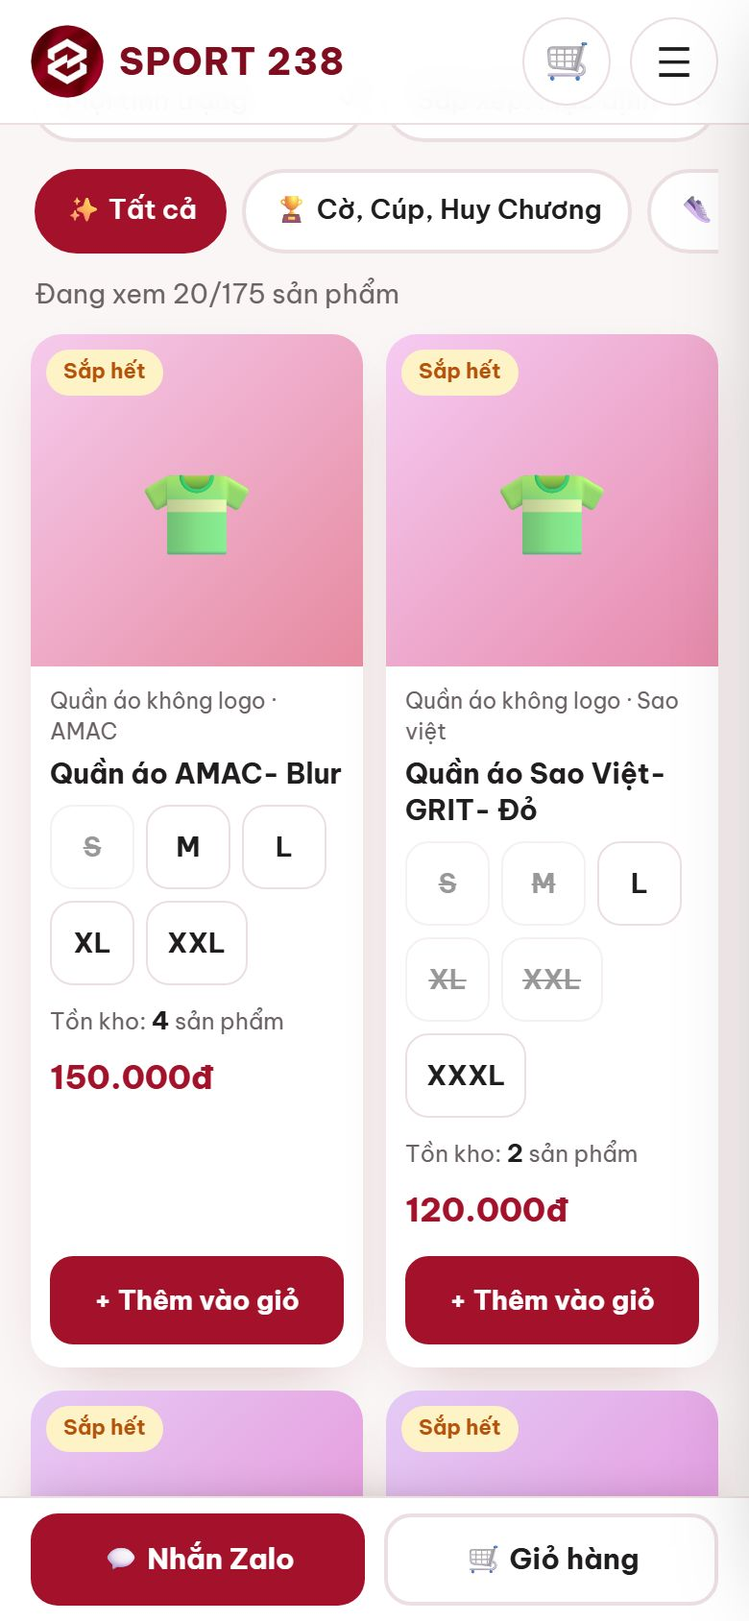
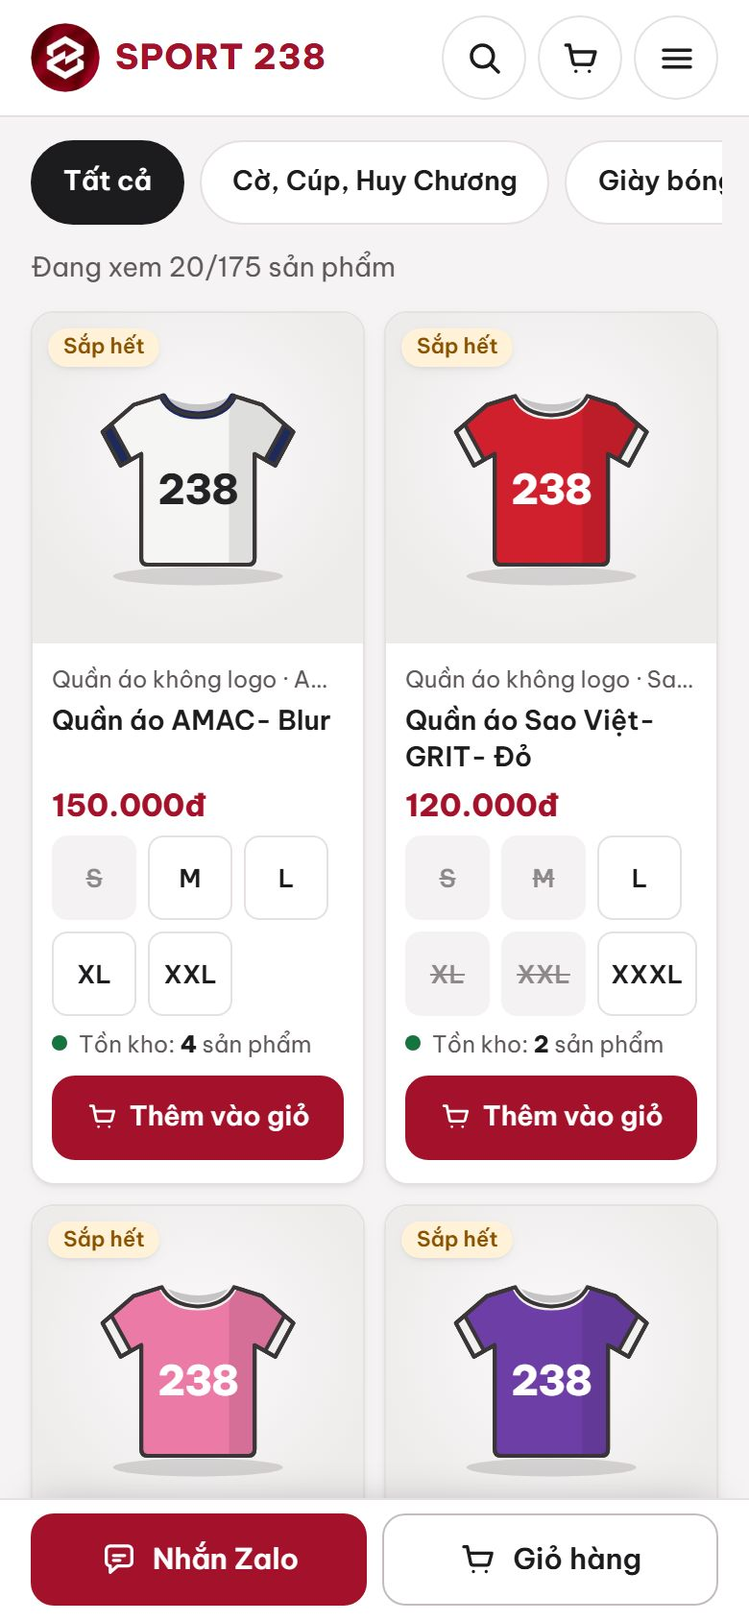
D7: ảnh sau khi làm lại giao diện, trang so sánh trước–sau; cập nhật PROGRESS, BACKLOG
- screenshots/after/: 17 ảnh chụp lại bằng tests/chup_anh.py (thêm 11-chitiet-pc,
  12-trangchu-pc-dark); screenshots/so-sanh.html chú thích từng cặp, ảnh chưa có ghi
  "Trước đây chưa có".
- PROGRESS.md, BACKLOG.md: D1–D4, D7 xong; số liệu Lighthouse, axe, CLS sau khi làm lại.

diff --git a/screenshots/so-sanh.html b/screenshots/so-sanh.html
@@ -1,9 +1,38 @@
 <!DOCTYPE html><html lang="vi"><head><meta charset="utf-8"><meta name="viewport" content="width=device-width,initial-scale=1">
-<title>SPORT 238 – So sánh trước và sau (Giai đoạn sửa lỗi điện thoại)</title>
-<style>:root{--bg:#faf6f6;--ink:#1f1d1e;--mu:#6b6264;--card:#fff;--ac:#a3122a}@media(prefers-color-scheme:dark){:root{--bg:#151213;--ink:#f3eeee;--mu:#b3a8aa;--card:#1f1a1b;--ac:#ff9aa6}}
-body{margin:0;background:var(--bg);color:var(--ink);font:16px/1.55 system-ui,sans-serif;padding:24px 16px}main{max-width:1100px;margin:0 auto}h1{margin:0 0 6px}h2{margin:0 0 6px;font-size:20px}
-section{background:var(--card);border-radius:16px;padding:18px;margin:18px 0;box-shadow:0 8px 24px -16px rgba(0,0,0,.3)}p{color:var(--mu);margin:0 0 12px}
-.pair{display:grid;grid-template-columns:1fr 1fr;gap:14px;align-items:start}figure{margin:0}figcaption{font-weight:700;color:var(--ac);margin-bottom:6px}img{width:100%;border-radius:10px;border:1px solid rgba(127,127,127,.25)}
-.none{border:2px dashed rgba(127,127,127,.4);border-radius:10px;padding:40px 10px;text-align:center;color:var(--mu)}@media(max-width:600px){.pair{gap:8px}}</style></head><body><main>
-<h1>So sánh trước – sau</h1><p>Đợt sửa lỗi trải nghiệm điện thoại, ngày 24/11/2026. Ảnh chụp từ web tĩnh (đúng bản khách xem), dữ liệu mẫu 175 sản phẩm. Ảnh khảo sát ban đầu đầy đủ ở thư mục <code>before/khao-sat-24-11/</code>.</p>
-<section><h2>Điện thoại – đầu trang</h2><p>Thêm giờ mở cửa ở thanh trên cùng, nút menu ☰, thanh “Nhắn Zalo / Giỏ hàng” cố định ở dưới. Bỏ hình trang trí lớn để sản phẩm lên gần đầu trang.</p><div class="pair"><figure><figcaption>Trước</figcaption><img src="before/01-trangchu-dt-light.jpg" alt="Trước: Điện thoại – đầu trang" loading="lazy"></figure><figure><figcaption>Sau</figcaption><img src="after/01-trangchu-dt-light.jpg" alt="Sau: Điện thoại – đầu trang" loading="lazy"></figure></div></section><section><h2>Điện thoại – đầu trang (chế độ tối)</h2><div class="pair"><figure><figcaption>Trước</figcaption><img src="before/01-trangchu-dt-dark.jpg" alt="Trước: Điện thoại – đầu trang (chế độ tối)" loading="lazy"></figure><figure><figcaption>Sau</figcaption><img src="after/01-trangchu-dt-dark.jpg" alt="Sau: Điện thoại – đầu trang (chế độ tối)" loading="lazy"></figure></div></section><section><h2>Điện thoại – kéo xuống 1 màn hình</h2><p>Trước: vẫn là hình trang trí. Sau: đã tới ô tìm kiếm và sản phẩm (sản phẩm đầu tiên ở 1.156 px, trước là 3.908 px).</p><div class="pair"><figure><figcaption>Trước</figcaption><img src="before/02-man-hinh-thu-2-dt-light.jpg" alt="Trước: Điện thoại – kéo xuống 1 màn hình" loading="lazy"></figure><figure><figcaption>Sau</figcaption><img src="after/02-man-hinh-thu-2-dt-light.jpg" alt="Sau: Điện thoại – kéo xuống 1 màn hình" loading="lazy"></figure></div></section><section><h2>Điện thoại – danh sách sản phẩm</h2><p>2 sản phẩm mỗi hàng (trước 1). Nút size, màu cao 44 px cho dễ bấm. Hiện 20 sản phẩm mỗi lần, có nút “Xem thêm”: trang dài 8.458 px thay vì 119.543 px.</p><div class="pair"><figure><figcaption>Trước</figcaption><img src="before/03-luoi-sanpham-dt-light.jpg" alt="Trước: Điện thoại – danh sách sản phẩm" loading="lazy"></figure><figure><figcaption>Sau</figcaption><img src="after/03-luoi-sanpham-dt-light.jpg" alt="Sau: Điện thoại – danh sách sản phẩm" loading="lazy"></figure></div></section><section><h2>Điện thoại – danh sách sản phẩm (chế độ tối)</h2><div class="pair"><figure><figcaption>Trước</figcaption><img src="before/03-luoi-sanpham-dt-dark.jpg" alt="Trước: Điện thoại – danh sách sản phẩm (chế độ tối)" loading="lazy"></figure><figure><figcaption>Sau</figcaption><img src="after/03-luoi-sanpham-dt-dark.jpg" alt="Sau: Điện thoại – danh sách sản phẩm (chế độ tối)" loading="lazy"></figure></div></section><section><h2>Điện thoại – menu ☰ (mới)</h2><p>Trước: trên điện thoại không có menu. Sau: menu tới Danh mục, Sản phẩm, Về shop, Cách mua, nút Zalo, địa chỉ và giờ mở cửa.</p><div class="pair"><figure><figcaption>Trước</figcaption><div class="none">Trước đây chưa có</div></figure><figure><figcaption>Sau</figcaption><img src="after/04-menu-dt-light.jpg" alt="Sau: Điện thoại – menu ☰ (mới)" loading="lazy"></figure></div></section><section><h2>Tìm “giay” (không dấu)</h2><p>Trước: 0 kết quả. Sau: 36 kết quả, giống gõ “giày”. Tìm được cả theo mã (PVN…), hãng, màu.</p><div class="pair"><figure><figcaption>Trước</figcaption><img src="before/05-tim-giay-khong-dau-dt-light.jpg" alt="Trước: Tìm “giay” (không dấu)" loading="lazy"></figure><figure><figcaption>Sau</figcaption><img src="after/05-tim-giay-khong-dau-dt-light.jpg" alt="Sau: Tìm “giay” (không dấu)" loading="lazy"></figure></div></section><section><h2>Điện thoại – trang chi tiết</h2><p>Nút Zalo nổi không còn che nút chọn loại. Màu, size đã chọn trên thẻ được giữ. Thêm giờ mở cửa.</p><div class="pair"><figure><figcaption>Trước</figcaption><img src="before/06-chitiet-dt-light.jpg" alt="Trước: Điện thoại – trang chi tiết" loading="lazy"></figure><figure><figcaption>Sau</figcaption><img src="after/06-chitiet-dt-light.jpg" alt="Sau: Điện thoại – trang chi tiết" loading="lazy"></figure></div></section><section><h2>Điện thoại – trang chi tiết (chế độ tối)</h2><div class="pair"><figure><figcaption>Trước</figcaption><img src="before/06-chitiet-dt-dark.jpg" alt="Trước: Điện thoại – trang chi tiết (chế độ tối)" loading="lazy"></figure><figure><figcaption>Sau</figcaption><img src="after/06-chitiet-dt-dark.jpg" alt="Sau: Điện thoại – trang chi tiết (chế độ tối)" loading="lazy"></figure></div></section><section><h2>Điện thoại – giỏ hàng</h2><p>Nút +/− và nút đóng to hơn (44 px). Ghi chú nhận hàng có giờ mở cửa.</p><div class="pair"><figure><figcaption>Trước</figcaption><img src="before/07-giohang-dt-light.jpg" alt="Trước: Điện thoại – giỏ hàng" loading="lazy"></figure><figure><figcaption>Sau</figcaption><img src="after/07-giohang-dt-light.jpg" alt="Sau: Điện thoại – giỏ hàng" loading="lazy"></figure></div></section><section><h2>Điện thoại – giỏ hàng (chế độ tối)</h2><div class="pair"><figure><figcaption>Trước</figcaption><img src="before/07-giohang-dt-dark.jpg" alt="Trước: Điện thoại – giỏ hàng (chế độ tối)" loading="lazy"></figure><figure><figcaption>Sau</figcaption><img src="after/07-giohang-dt-dark.jpg" alt="Sau: Điện thoại – giỏ hàng (chế độ tối)" loading="lazy"></figure></div></section><section><h2>Bấm “Xóa giỏ hàng”</h2><p>Trước: xóa ngay, không hỏi. Sau: hỏi lại “Xóa hết 2 món trong giỏ hàng?” với hai nút Xóa hết / Giữ lại.</p><div class="pair"><figure><figcaption>Trước</figcaption><img src="before/08-bam-xoa-gio-dt-light.jpg" alt="Trước: Bấm “Xóa giỏ hàng”" loading="lazy"></figure><figure><figcaption>Sau</figcaption><img src="after/08-bam-xoa-gio-dt-light.jpg" alt="Sau: Bấm “Xóa giỏ hàng”" loading="lazy"></figure></div></section><section><h2>Máy tính – đầu trang</h2><p>Nút “💬 Zalo” trên thanh đầu trang; giờ mở cửa ở thanh trên cùng.</p><div class="pair"><figure><figcaption>Trước</figcaption><img src="before/09-trangchu-pc.jpg" alt="Trước: Máy tính – đầu trang" loading="lazy"></figure><figure><figcaption>Sau</figcaption><img src="after/09-trangchu-pc.jpg" alt="Sau: Máy tính – đầu trang" loading="lazy"></figure></div></section><section><h2>Máy tính – danh sách sản phẩm</h2><p>Sản phẩm nằm ngay sau danh mục (bỏ dải “Hàng đang có sẵn” trùng lặp); 20 sản phẩm mỗi lần, có nút “Xem thêm”.</p><div class="pair"><figure><figcaption>Trước</figcaption><img src="before/10-luoi-pc.jpg" alt="Trước: Máy tính – danh sách sản phẩm" loading="lazy"></figure><figure><figcaption>Sau</figcaption><img src="after/10-luoi-pc.jpg" alt="Sau: Máy tính – danh sách sản phẩm" loading="lazy"></figure></div></section></main></body></html>
+<title>SPORT 238 – So sánh trước và sau (làm lại giao diện)</title>
+<style>:root{--bg:#f5f3f3;--ink:#1c1b1d;--mu:#5e585a;--card:#fff;--ac:#a3122a;--line:#e5e0e1}
+@media(prefers-color-scheme:dark){:root{--bg:#121113;--ink:#f3eff0;--mu:#b4abad;--card:#1b191b;--ac:#ff8a9a;--line:#332e31}}
+body{margin:0;background:var(--bg);color:var(--ink);font:16px/1.55 system-ui,"Segoe UI",sans-serif;padding:24px 16px}main{max-width:1100px;margin:0 auto}
+h1{margin:0 0 6px;font-size:28px}h2{margin:0 0 6px;font-size:20px}p{color:var(--mu);margin:0 0 12px}ul{color:var(--mu);margin:0 0 12px;padding-left:20px}
+section{background:var(--card);border:1px solid var(--line);border-radius:16px;padding:18px;margin:18px 0}
+.pair{display:grid;grid-template-columns:1fr 1fr;gap:14px;align-items:start}figure{margin:0}figcaption{font-weight:700;color:var(--ac);margin-bottom:6px}
+img{width:100%;height:auto;border-radius:10px;border:1px solid var(--line);display:block}
+.none{border:2px dashed var(--line);border-radius:10px;padding:40px 10px;text-align:center;color:var(--mu)}
+code{background:var(--line);padding:1px 5px;border-radius:4px}@media(max-width:600px){.pair{gap:8px}}</style></head><body><main>
+<h1>So sánh trước – sau: làm lại giao diện</h1>
+<p>Đợt làm lại giao diện cửa hàng (hệ thống thiết kế D1, các trang D2–D3, tốc độ D4, ảnh D7), ngày 24/11/2026.
+<b>Trước</b>: ảnh khảo sát ban đầu (thư mục <code>before/</code>). <b>Sau</b>: bản Next.js xuất web tĩnh (đúng bản khách xem), dữ liệu mẫu 175 sản phẩm, chưa có ảnh sản phẩm thật.
+Điện thoại 390 px, máy tính 1366 px. Chụp lại bằng <code>py tests/chup_anh.py &lt;địa chỉ web&gt; screenshots/after</code>.</p>
+<ul>
+<li>Màu, chữ, khoảng cách, nút thống nhất theo logo (đỏ đô + xám đen); chế độ tối đầy đủ, chữ đạt chuẩn tương phản.</li>
+<li>Bỏ emoji trang trí, quả bóng lớn, dải chữ chạy, biểu tượng bay: thay bằng biểu tượng SVG gọn, nét.</li>
+<li>Chưa có ảnh thật: thẻ sản phẩm hiện hình minh họa theo danh mục, tô theo màu của sản phẩm.</li>
+<li>So với bản Next.js ngay trước đợt này: tốc độ trang chủ (Lighthouse, điện thoại giả lập, đo trên máy shop) 66–76 điểm → 99 điểm; tệp trang chủ 235 KB → 138 KB.</li>
+</ul>
+<section><h2>Điện thoại – đầu trang</h2><p>Phần mở đầu thấp hơn (370 px), nói rõ cách mua: “Chọn size, nhắn Zalo, ghé shop nhận hàng” kèm giờ mở cửa 8:00–21:00. Bỏ quả bóng trang trí và nút Zalo nổi. Đầu trang có nút tìm nhanh, giỏ, menu; dưới cùng là thanh Nhắn Zalo / Giỏ hàng.</p><div class="pair"><figure><figcaption>Trước</figcaption><img src="before/01-trangchu-dt-light.jpg" alt="Trước: điện thoại – đầu trang" loading="lazy"></figure><figure><figcaption>Sau</figcaption><img src="after/01-trangchu-dt-light.jpg" alt="Sau: điện thoại – đầu trang" loading="lazy"></figure></div></section>
+<section><h2>Điện thoại – đầu trang (chế độ tối)</h2><p>Nền tối thật sự, chữ đỏ nhỏ dùng tông hồng sáng cho đủ tương phản.</p><div class="pair"><figure><figcaption>Trước</figcaption><img src="before/01-trangchu-dt-dark.jpg" alt="Trước: điện thoại – đầu trang, chế độ tối" loading="lazy"></figure><figure><figcaption>Sau</figcaption><img src="after/01-trangchu-dt-dark.jpg" alt="Sau: điện thoại – đầu trang, chế độ tối" loading="lazy"></figure></div></section>
+<section><h2>Điện thoại – kéo xuống 1 màn hình</h2><p>Dải lợi ích (xem tồn từng size, giữ hàng cho bạn, ghé shop nhận), 9 danh mục bằng biểu tượng SVG vuốt ngang, rồi tới ngay ô tìm và bộ lọc. Sản phẩm đầu tiên ở 1.148 px (ban đầu 3.908 px).</p><div class="pair"><figure><figcaption>Trước</figcaption><img src="before/02-man-hinh-thu-2-dt-light.jpg" alt="Trước: điện thoại – màn hình thứ hai" loading="lazy"></figure><figure><figcaption>Sau</figcaption><img src="after/02-man-hinh-thu-2-dt-light.jpg" alt="Sau: điện thoại – màn hình thứ hai" loading="lazy"></figure></div></section>
+<section><h2>Điện thoại – danh sách sản phẩm</h2><p>Khung ảnh vuông; chưa có ảnh thật thì hiện hình minh họa (áo, giày, vớ, cúp…) tô theo màu sản phẩm. Giá nằm ngay dưới tên, nút size 44 px, chấm xanh/đỏ cho tồn kho, nút “Thêm vào giỏ” có biểu tượng giỏ.</p><div class="pair"><figure><figcaption>Trước</figcaption><img src="before/03-luoi-sanpham-dt-light.jpg" alt="Trước: điện thoại – danh sách sản phẩm" loading="lazy"></figure><figure><figcaption>Sau</figcaption><img src="after/03-luoi-sanpham-dt-light.jpg" alt="Sau: điện thoại – danh sách sản phẩm" loading="lazy"></figure></div></section>
+<section><h2>Điện thoại – danh sách sản phẩm (chế độ tối)</h2><div class="pair"><figure><figcaption>Trước</figcaption><img src="before/03-luoi-sanpham-dt-dark.jpg" alt="Trước: điện thoại – danh sách, chế độ tối" loading="lazy"></figure><figure><figcaption>Sau</figcaption><img src="after/03-luoi-sanpham-dt-dark.jpg" alt="Sau: điện thoại – danh sách, chế độ tối" loading="lazy"></figure></div></section>
+<section><h2>Điện thoại – menu</h2><p>Menu gọn, chữ lớn, không emoji; nút Nhắn Zalo lớn; địa chỉ và giờ mở cửa ở cuối.</p><div class="pair"><figure><figcaption>Trước</figcaption><div class="none">Trước đây chưa có</div></figure><figure><figcaption>Sau</figcaption><img src="after/04-menu-dt-light.jpg" alt="Sau: điện thoại – menu" loading="lazy"></figure></div></section>
+<section><h2>Tìm “giay” (không dấu)</h2><p>Ô tìm rõ hơn (viền, biểu tượng kính lúp), ra 36 sản phẩm giống gõ “giày”. Giày hiện hình minh họa giày bóng đá (có đinh) hoặc giày thể thao.</p><div class="pair"><figure><figcaption>Trước</figcaption><img src="before/05-tim-giay-khong-dau-dt-light.jpg" alt="Trước: tìm giay" loading="lazy"></figure><figure><figcaption>Sau</figcaption><img src="after/05-tim-giay-khong-dau-dt-light.jpg" alt="Sau: tìm giay" loading="lazy"></figure></div></section>
+<section><h2>Điện thoại – trang chi tiết</h2><p>Thanh “Thêm vào giỏ” dính đáy màn hình, gộp luôn nút Zalo và giỏ (không chồng hai thanh, không che nút nào). Chấm trạng thái tồn kho. Phía dưới có khối “Ghé shop nhận hàng”: địa chỉ, giờ mở cửa, nút chỉ đường Google Maps. Ảnh vuốt ngang khi có nhiều ảnh.</p><div class="pair"><figure><figcaption>Trước</figcaption><img src="before/06-chitiet-dt-light.jpg" alt="Trước: điện thoại – trang chi tiết" loading="lazy"></figure><figure><figcaption>Sau</figcaption><img src="after/06-chitiet-dt-light.jpg" alt="Sau: điện thoại – trang chi tiết" loading="lazy"></figure></div></section>
+<section><h2>Điện thoại – trang chi tiết (chế độ tối)</h2><div class="pair"><figure><figcaption>Trước</figcaption><img src="before/06-chitiet-dt-dark.jpg" alt="Trước: trang chi tiết, chế độ tối" loading="lazy"></figure><figure><figcaption>Sau</figcaption><img src="after/06-chitiet-dt-dark.jpg" alt="Sau: trang chi tiết, chế độ tối" loading="lazy"></figure></div></section>
+<section><h2>Điện thoại – giỏ hàng</h2><p>Mỗi món ghi rõ size và giá; nút +/− gọn. Tạm tính và hai nút gửi đơn (Zalo, Messenger) luôn nằm cố định ở cuối giỏ; tin nhắn gửi shop và nút Sao chép ở giữa.</p><div class="pair"><figure><figcaption>Trước</figcaption><img src="before/07-giohang-dt-light.jpg" alt="Trước: giỏ hàng" loading="lazy"></figure><figure><figcaption>Sau</figcaption><img src="after/07-giohang-dt-light.jpg" alt="Sau: giỏ hàng" loading="lazy"></figure></div></section>
+<section><h2>Điện thoại – giỏ hàng (chế độ tối)</h2><div class="pair"><figure><figcaption>Trước</figcaption><img src="before/07-giohang-dt-dark.jpg" alt="Trước: giỏ hàng, chế độ tối" loading="lazy"></figure><figure><figcaption>Sau</figcaption><img src="after/07-giohang-dt-dark.jpg" alt="Sau: giỏ hàng, chế độ tối" loading="lazy"></figure></div></section>
+<section><h2>Bấm “Xóa giỏ hàng”</h2><p>Hỏi lại ngay dưới danh sách món: “Giữ lại” đứng trước, “Xóa hết” màu đỏ.</p><div class="pair"><figure><figcaption>Trước</figcaption><img src="before/08-bam-xoa-gio-dt-light.jpg" alt="Trước: bấm xóa giỏ" loading="lazy"></figure><figure><figcaption>Sau</figcaption><img src="after/08-bam-xoa-gio-dt-light.jpg" alt="Sau: bấm xóa giỏ" loading="lazy"></figure></div></section>
+<section><h2>Máy tính – đầu trang</h2><p>Phần mở đầu thấp hơn (490 px), bên phải là thẻ “Ghé shop nhận hàng” (địa chỉ, giờ, Chỉ đường, Zalo). Đầu trang dính có nút tìm nhanh, Nhắn Zalo, giỏ. Dải lợi ích ngay dưới.</p><div class="pair"><figure><figcaption>Trước</figcaption><img src="before/09-trangchu-pc.jpg" alt="Trước: máy tính – đầu trang" loading="lazy"></figure><figure><figcaption>Sau</figcaption><img src="after/09-trangchu-pc.jpg" alt="Sau: máy tính – đầu trang" loading="lazy"></figure></div></section>
+<section><h2>Máy tính – danh sách sản phẩm</h2><p>Ô tìm và bộ lọc thẳng hàng, danh mục dạng nút chữ (không emoji), thẻ sản phẩm có viền nhẹ và hình minh họa theo màu.</p><div class="pair"><figure><figcaption>Trước</figcaption><img src="before/10-luoi-pc.jpg" alt="Trước: máy tính – danh sách" loading="lazy"></figure><figure><figcaption>Sau</figcaption><img src="after/10-luoi-pc.jpg" alt="Sau: máy tính – danh sách" loading="lazy"></figure></div></section>
+<section><h2>Máy tính – trang chi tiết</h2><p>Ảnh bên trái (đứng yên khi cuộn), thông tin bên phải: loại, size kèm số còn, nút “Thêm vào giỏ”, “Hỏi shop”, khối “Ghé shop nhận hàng”.</p><div class="pair"><figure><figcaption>Trước</figcaption><div class="none">Trước đây chưa có</div></figure><figure><figcaption>Sau</figcaption><img src="after/11-chitiet-pc.jpg" alt="Sau: máy tính – trang chi tiết" loading="lazy"></figure></div></section>
+<section><h2>Máy tính – đầu trang (chế độ tối)</h2><div class="pair"><figure><figcaption>Trước</figcaption><div class="none">Trước đây chưa có</div></figure><figure><figcaption>Sau</figcaption><img src="after/12-trangchu-pc-dark.jpg" alt="Sau: máy tính – đầu trang, chế độ tối" loading="lazy"></figure></div></section>
+</main></body></html>

diff --git a/PROGRESS.md b/PROGRESS.md
@@ -13,8 +13,9 @@ Chủ shop đã duyệt PROPOSALS: **A1–A7, B1–B6, C1, C3, D1–D7, E2**; vi
 - ✅ **A2** danh mục "Giày thể thao" (Python 2 bản + Java; `ParityWithPythonTest` Python = Java trên file thật; dữ liệu mẫu cập nhật).
 - ✅ **E2** Next.js xuất web tĩnh là bản chính (`tools/export_next.py`, `daily_update.xuat_web` tự dùng HTML khi lỗi; `tests/test_seo.py`). Nhãn `on-dinh-2026-11-24-e2-next-tinh`. **Từ nay chức năng và giao diện mới chỉ làm trên Next.js** (xem CLAUDE.md).
 - ✅ **T (một phần)** `tests/test_a11y.py` (axe) + `tests/lighthouse.py`; cài: `cd tests && npm install`. ✅ **D5** axe 0 lỗi serious trên cả hai bản. Lighthouse: trang SP 98/100/100/100; trang chủ hiệu năng ~70 (xem phân tích trong BACKLOG: phần lớn do chi phí phông chữ của máy đo Windows).
-- ⏭ **Tiếp theo theo thứ tự:** D1–D7 (hệ thống thiết kế, làm lại giao diện trên bản Next) → A3 bảng size (dữ liệu từ `tai-lieu/bang-size-goc/`, Q3/Q4) + B1 gợi ý size → A4, A5, A6, B2–B5, C1, C3, N1 → B6 + N2 (trang quản trị) → G (nhập hàng an toàn, BACKLOG) → T (axe, Lighthouse, CI) → J (hướng dẫn đưa lên mạng).
-- Kiểm thử hiện tại: pytest 28 bài đạt; test_seo 0 lỗi; 4 bài Playwright 0 lỗi trên web tĩnh Next (export_next + http.server 3602); trước đó: pytest 25 bài đạt (`py -m pytest`); `mvn test` 5 bài đạt (JDK/Maven di động ở `scratchpad/java`, có thể bị xóa — tải lại theo tests/README.md); 4 bài Playwright 0 lỗi trên Node 3000 và Next.js 3100.
+- ✅ **D1–D4, D7 (24/11/2026 tối) – làm lại giao diện bản Next.js:** hệ thống thiết kế viết lại gọn ở đầu `app/globals.css` (biến màu theo logo + bản tối đủ tương phản, thang chữ, khoảng cách, bo góc, bóng, nút và trạng thái); biểu tượng SVG `components/Icons.tsx` (bỏ emoji trang trí, dải chữ chạy, biểu tượng bay, backdrop-filter); chưa có ảnh thật thì hiện **hình minh họa SVG theo danh mục, tô theo màu sản phẩm** (`components/ArtSprite.tsx`, vẽ một lần mỗi trang); đầu trang gọn có nút tìm nhanh; phần mở đầu thấp (điện thoại 370 px) với thông điệp "Chọn size, nhắn Zalo, ghé shop nhận hàng" + giờ mở cửa; dải lợi ích; danh mục SVG (điện thoại vuốt ngang); trang chi tiết có ảnh vuốt (scroll-snap), **thanh "Thêm vào giỏ" dính đáy màn hình trên điện thoại** (gộp nút Zalo và giỏ, thay thanh dưới), khối "Ghé shop nhận hàng" (địa chỉ, giờ, chỉ đường Google Maps); giỏ gọn (tạm tính + 2 nút gửi đơn cố định ở cuối). Tốc độ: trang chủ gửi danh sách SP dạng gọn (`pack/unpack` trong `lib/shop.ts`), giỏ trống không tải `products.json`, logo 96 px WebP 3 KB, phông 3 độ đậm: trang chủ 235 KB → 138 KB. **Lighthouse (điện thoại, máy này): trang chủ 99/100/100/100 (trước 66–76 hiệu năng), trang SP 95–100/100/100/100.** Kiểm thử mới `tests/test_giao_dien.py` (65 mục), chụp ảnh `tests/chup_anh.py`, so sánh `screenshots/so-sanh.html`.
+- ⏭ **Tiếp theo theo thứ tự:** A3 bảng size (dữ liệu từ `tai-lieu/bang-size-goc/`, Q3/Q4) + B1 gợi ý size → A4, A5, A6, B2–B5, C1, C3, N1 → B6 + N2 (trang quản trị) → G (nhập hàng an toàn, BACKLOG) → T (axe, Lighthouse, CI) → J (hướng dẫn đưa lên mạng).
+- Kiểm thử sau D1–D4 (web tĩnh Next 3702): test_all, test_feat, test_cards, test_mobile, test_giao_dien, test_a11y, test_seo đều 0 lỗi; pytest 28 đạt. Trước đó: pytest 28 bài đạt; test_seo 0 lỗi; 4 bài Playwright 0 lỗi trên web tĩnh Next (export_next + http.server 3602); trước đó: pytest 25 bài đạt (`py -m pytest`); `mvn test` 5 bài đạt (JDK/Maven di động ở `scratchpad/java`, có thể bị xóa — tải lại theo tests/README.md); 4 bài Playwright 0 lỗi trên Node 3000 và Next.js 3100.
 
 ## CHẾ ĐỘ TỰ CHỦ (từ 24/11/2026)
 Chủ shop đã chuyển sang chế độ tự chủ tối đa: không dừng chờ duyệt; việc cần chủ shop quyết định ghi vào `QUESTIONS.md` (tạm chọn phương án an toàn) rồi làm tiếp. Danh sách việc và tiêu chí "xong khi…": `BACKLOG.md`. Nhãn bản ổn định trước đợt này: `on-dinh-2026-11-24-sau-sua-loi-dt`.

diff --git a/BACKLOG.md b/BACKLOG.md
@@ -20,11 +20,11 @@ Xếp theo lợi ích ÷ công sức (cao trước). Độ khó: S < nửa ngày
 ## Đợt 2 – giao diện và chức năng cho khách (trên bản chính sau khi hợp nhất)
 | Mã | Việc | Lợi ích | Độ khó | Xong khi… | TT |
 |---|---|---|---|---|---|
-| D1 | Hệ thống thiết kế (màu, chữ, khoảng cách, bo góc, nút, trạng thái) + làm lại trang chủ, thẻ, trang chi tiết, giỏ | Đẹp, chuyên nghiệp, dễ mua | L | Ảnh `screenshots/after/`, trang so sánh; Lighthouse mobile ≥ 90 cả 4 mục | ⬜ |
+| D1 | Hệ thống thiết kế (màu, chữ, khoảng cách, bo góc, nút, trạng thái) + làm lại trang chủ, thẻ, trang chi tiết, giỏ | Đẹp, chuyên nghiệp, dễ mua | L | Ảnh `screenshots/after/`, trang so sánh; Lighthouse mobile ≥ 90 cả 4 mục | ✅ 24/11: trang chủ 99/100/100/100, trang SP 95–100/100/100/100 |
 | E1 | Bảng size + link cạnh chỗ chọn size + gợi ý size theo chiều cao, cân nặng | Chọn đúng size | M | Kiểm thử mở đúng hãng, gợi ý đúng theo bảng | ⬜ |
 | E2 | Lọc theo size còn hàng, khoảng giá, nhãn hiệu (nút "Lọc" trên điện thoại) | "Size 42 còn không" tự xem | M | Kiểm thử từng bộ lọc | ⬜ |
 | E3 | Hỏi shop về SP: sao chép sẵn tên, mã, size | Khách không gõ lại | S | Kiểm thử clipboard | ⬜ |
-| E4 | Khối "Ghé shop": bản đồ (tải khi kéo tới), chỉ đường, giờ mở cửa, nút gọi (ẩn tới khi có số, Q2) | Khách tìm tới shop | S | Kiểm thử | ⬜ |
+| E4 | Khối "Ghé shop": bản đồ (tải khi kéo tới), chỉ đường, giờ mở cửa ~~nút gọi~~ (Q2: không làm) | Khách tìm tới shop | S | Kiểm thử | 🔄 trang SP đã có địa chỉ, giờ, chỉ đường Google Maps; còn bản đồ nhúng |
 | E5 | Đặt đồng phục đội: chọn mẫu, số lượng theo size, tên + số in áo, tin nhắn Zalo | Đơn lớn | M–L | Kiểm thử tạo tin nhắn đúng | ⬜ |
 | E6 | Sản phẩm liên quan, đã xem gần đây | Xem thêm hàng | S | Kiểm thử | ⬜ |
 | E7 | Yêu thích (lưu trên máy), chia sẻ SP | Quay lại mua | S | Kiểm thử | ⬜ |
@@ -55,3 +55,8 @@ Các mục đã xong trước đó: xem PROGRESS.md.
 - Lighthouse điện thoại – trang chủ: hiệu năng **66** (tổng thời gian chặn 4,2 s: chuyển động chạy liên tục, tính kiểu/bố cục nặng, dữ liệu 175 SP nhúng vào trang), truy cập 100, thực hành tốt 100, SEO 100. Trang SP: 98 / 95 / 100 / 100.
 - axe: 17 lỗi serious (3 loại) → **đã sửa, 0 lỗi** trên cả hai bản: nhãn link ảnh SP và nút size không khớp chữ hiển thị; tương phản chữ đỏ nhỏ trên nền tối (.eyebrow, giá), chữ "hết" của size hết hàng bị mờ.
 - **Phân tích hiệu năng trang chủ (24/11/2026):** điểm 66–72 trên máy này. Bản ghi hiệu năng (CPU chậm 4 lần) cho thấy một lần tính bố cục 0,9–1,1 s; **trang 404 trống cũng tốn ~0,5 s** → phần lớn là chi phí cố định của Chrome khởi tạo phông chữ Windows lúc đo, không phải do trang. Đã thử và loại trừ: tắt chuyển động, bỏ làm mờ nền, ẩn emoji, phông hệ thống, chỉ gửi 20 SP (75 điểm). Bỏ hẳn emoji giảm ~120 ms; `content-visibility` giảm ~170 ms (trong sai số đo). Việc nên làm trong D1: thay emoji bằng biểu tượng SVG, ảnh WebP tải lười; **đo lại bằng PageSpeed Insights sau khi đưa lên mạng** hoặc Lighthouse trong CI Linux (số liệu thật hơn máy Windows này). Trang sản phẩm: 98 điểm.
+
+## Số liệu sau khi làm lại giao diện (D1–D4, 24/11/2026 tối, web tĩnh Next + python http.server, không nén)
+- Lighthouse điện thoại – trang chủ: **99 / 100 / 100 / 100** (FCP 1,7 s, LCP 1,7 s, TBT 60 ms, CLS 0); trang SP: **95–100 / 100 / 100 / 100**. Ba lần đo trang chủ đều 99.
+- Nguyên nhân chính trước đây không phải chỉ do phông chữ: trang chủ nhúng toàn bộ 175 SP dạng đầy đủ (235 KB HTML) + emoji + chuyển động liên tục. Nay: danh sách SP gửi dạng gọn (138 KB HTML), SVG thay emoji, không chuyển động lặp, giỏ trống không tải `products.json`.
+- axe: 0 lỗi (kể cả mức nhẹ). CLS = 0. Không tràn ngang ở 320/390/768/1366 px.
